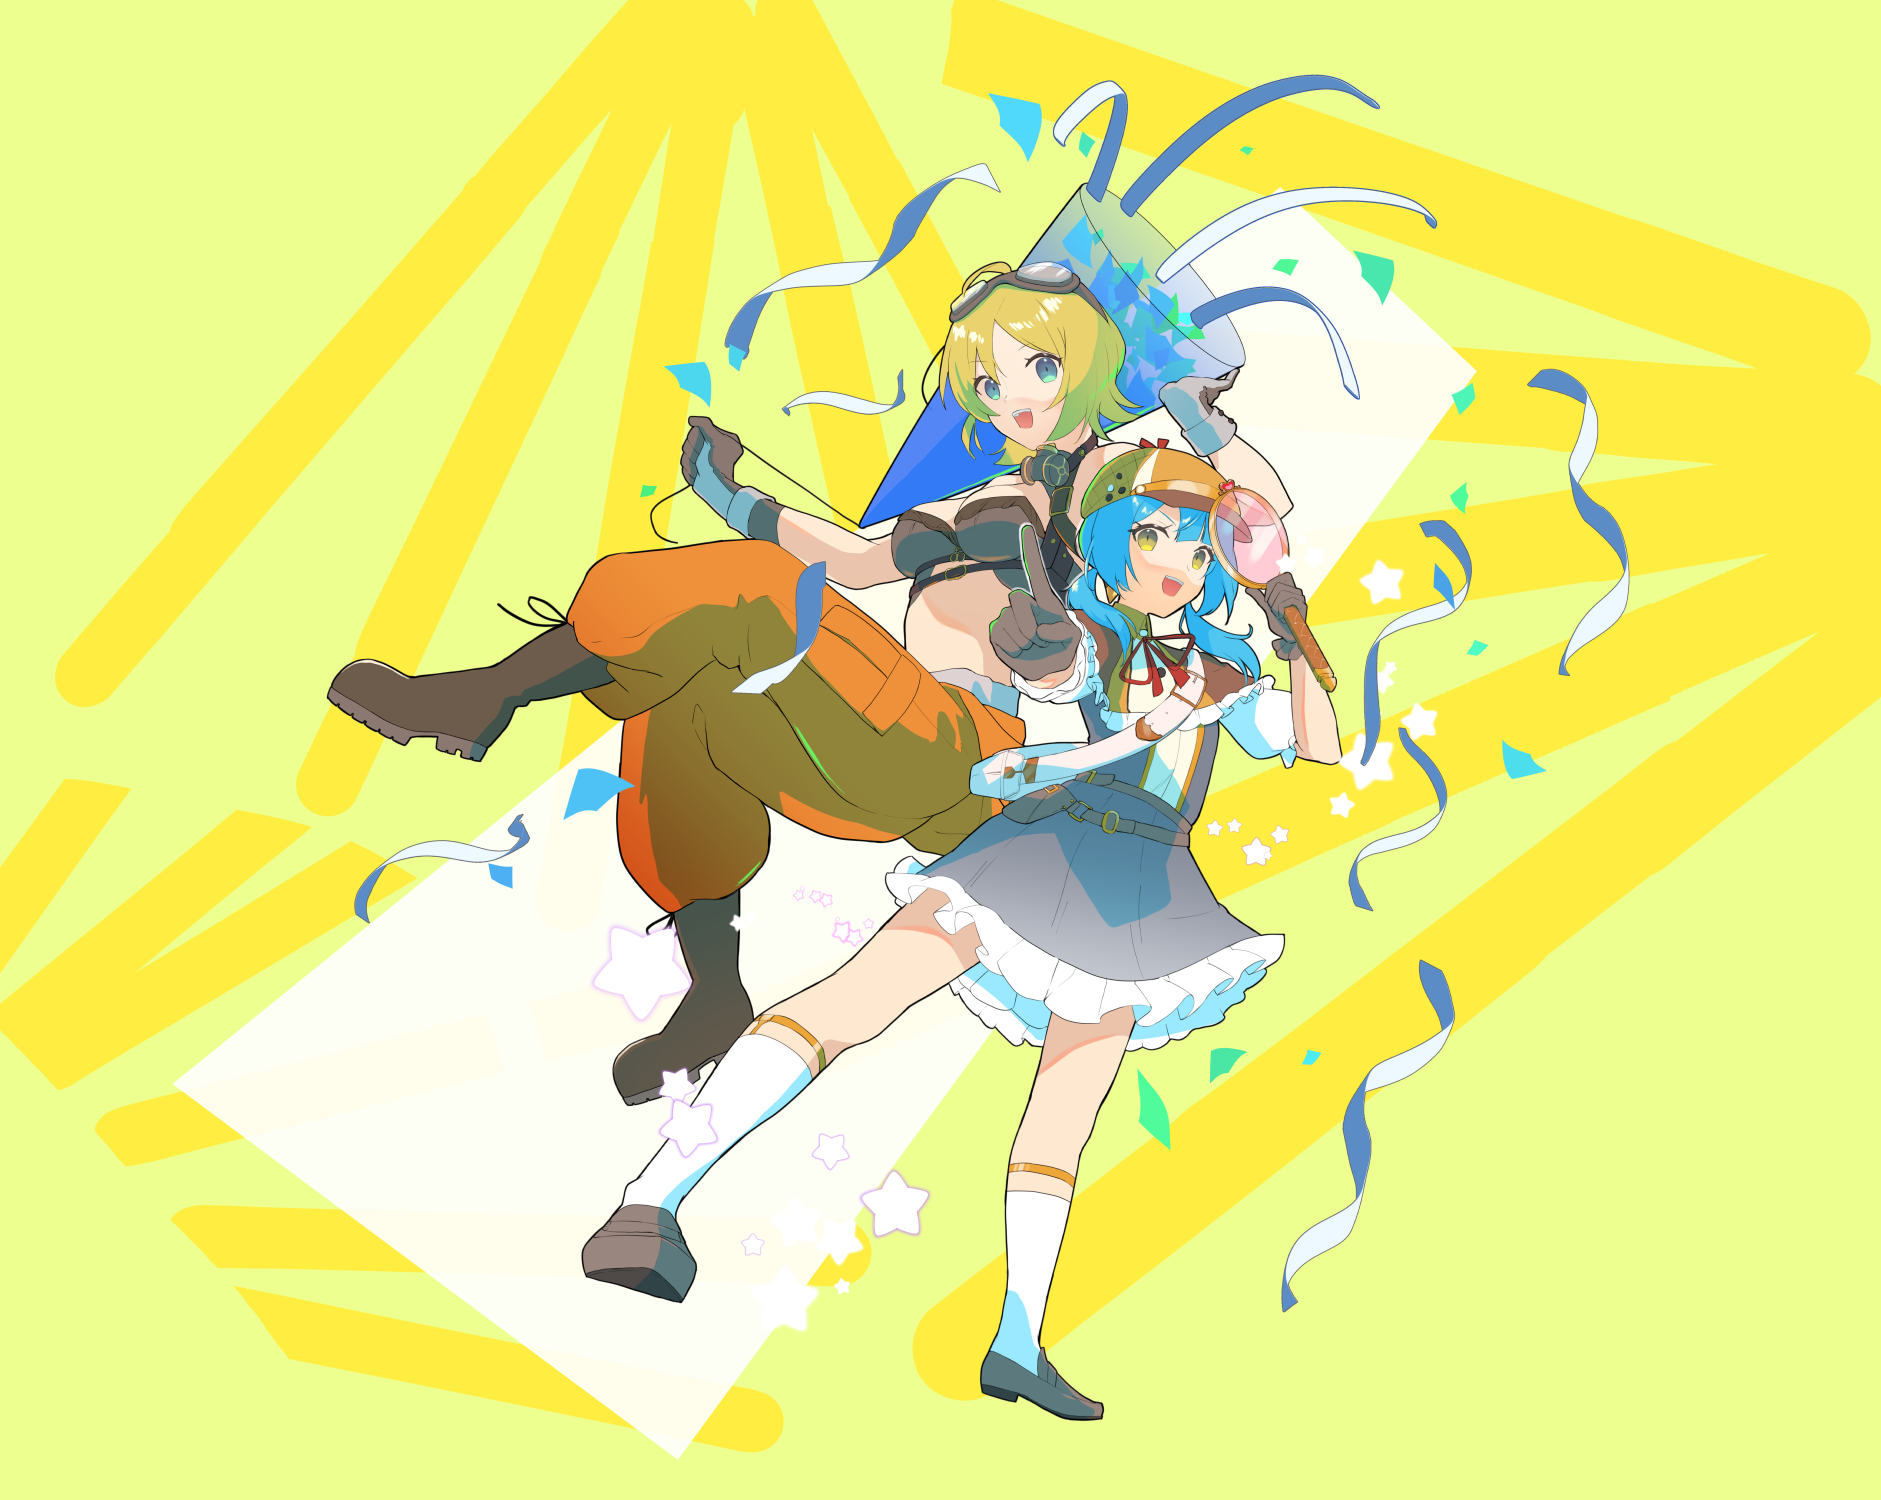
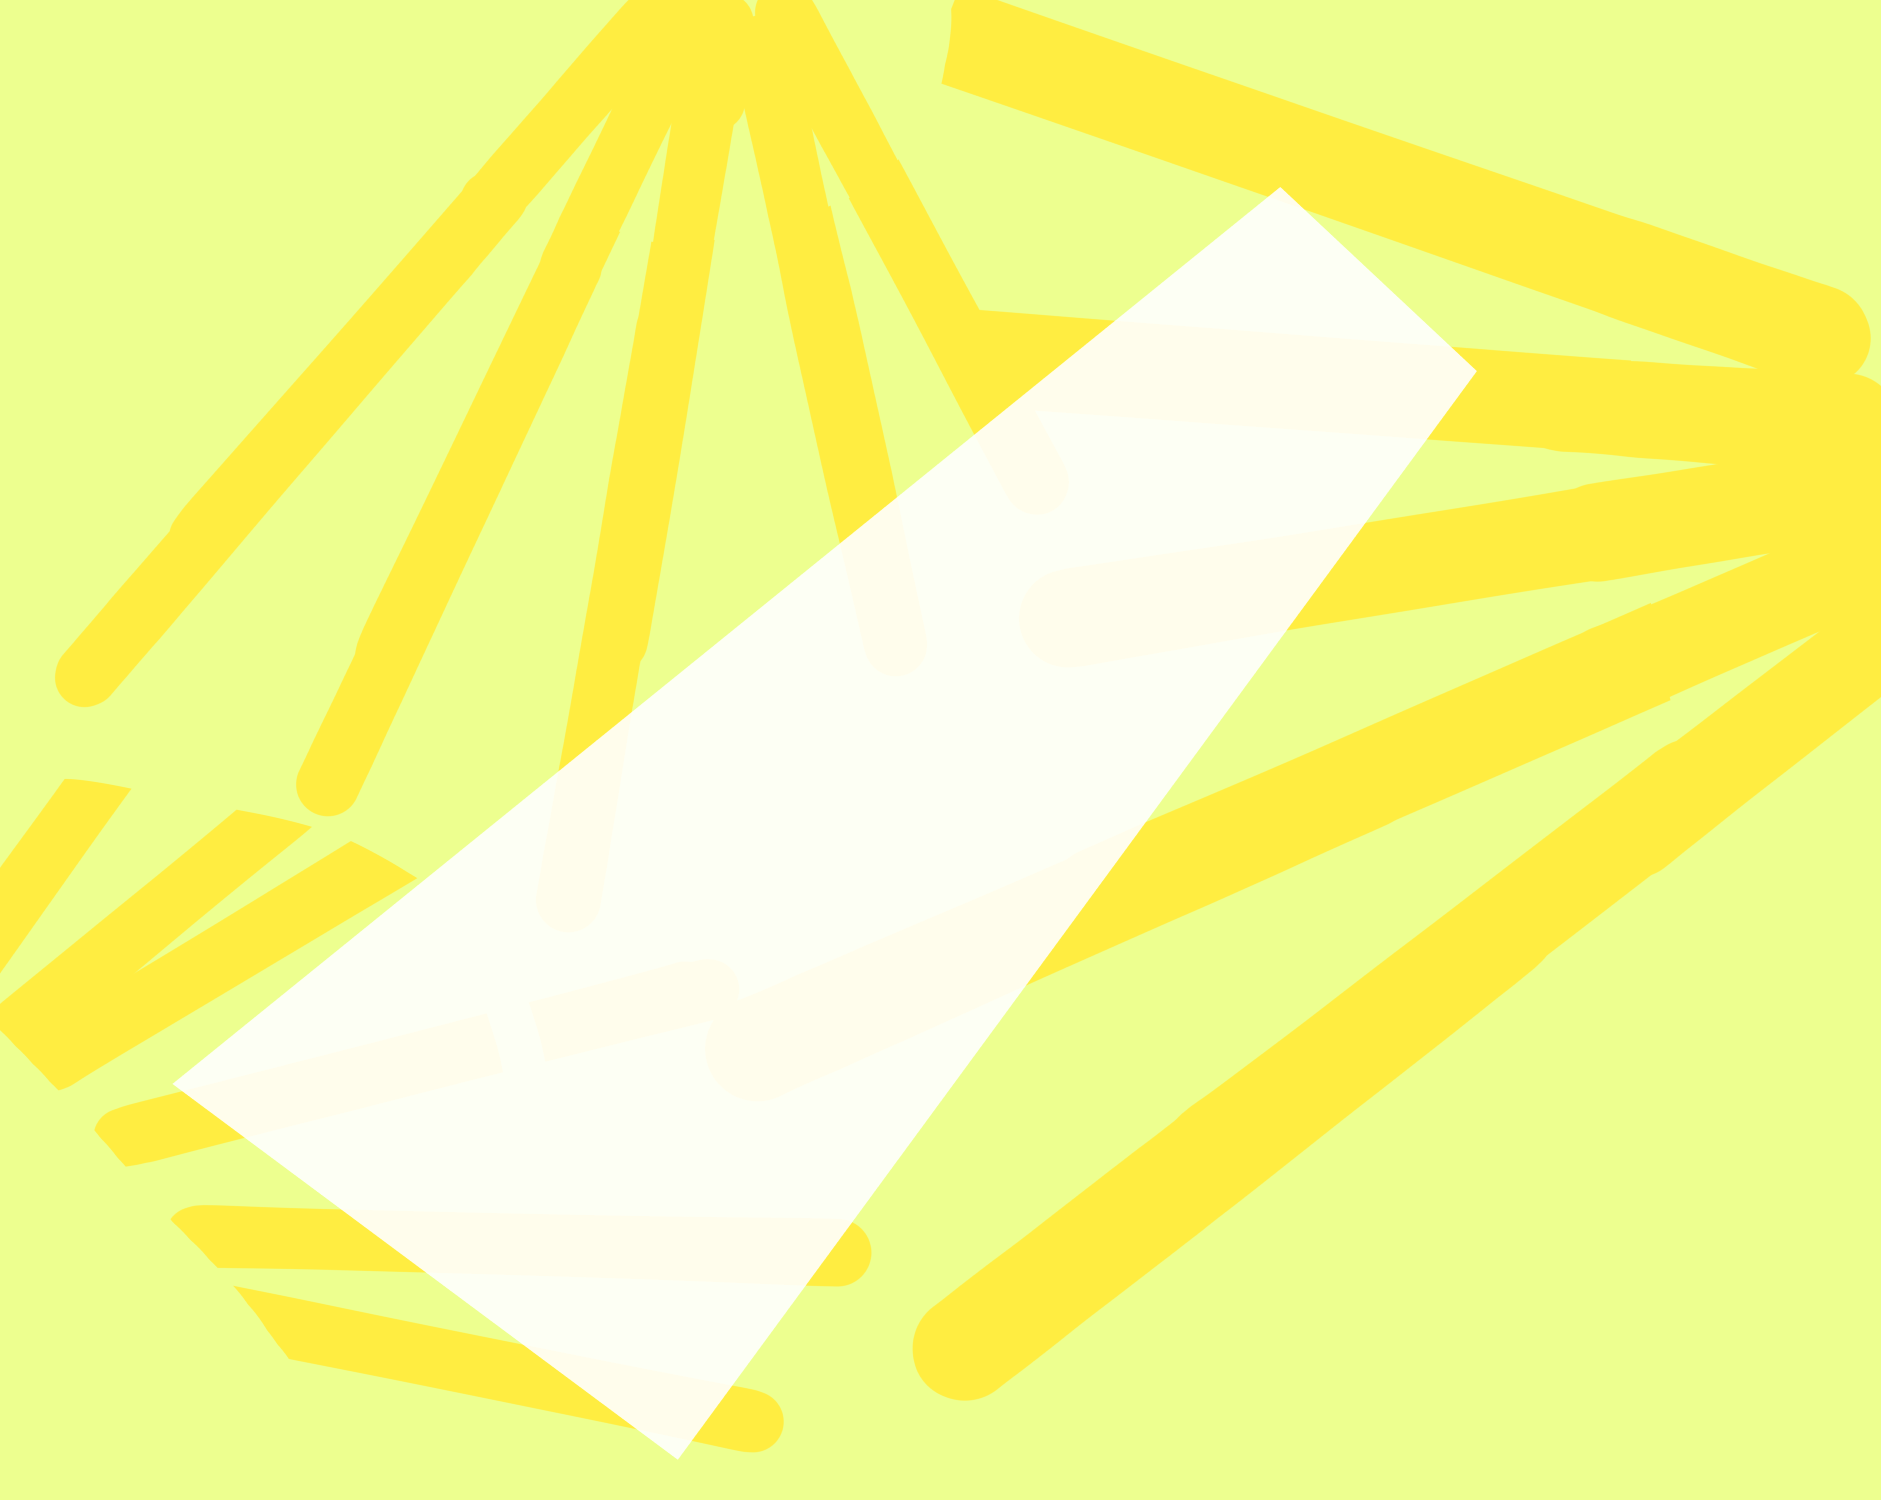
feat: トップイラストを動かした

diff --git a/app/top/page.client.tsx b/app/top/page.client.tsx
@@ -32,6 +32,53 @@ const BackgroundInAnimation = keyframes`
   }
 `;
 
+const RightSlideInAnimation = keyframes`
+  0% {
+    transform: translateX(120%) rotateZ(0deg);
+  }
+  50% {
+    transform: translateX(0%)  rotateZ(-30deg);
+  }
+  100% {
+    transform: translateX(0%) scale(1, 1);
+  }
+`;
+
+const LeftSlideInAnimation = keyframes`
+  0% {
+    transform: translateX(-120%) rotateZ(0deg);
+  }
+  50% {
+    transform: translateX(0%)  rotateZ(30deg);
+  }
+  100% {
+    transform: translateX(0%) scale(1, 1);
+  }
+`;
+
+const MoveAnimation = keyframes`
+  0% {
+    transform: translateY(0%);
+    animation-timing-function: ease-out;
+  }
+  25% {
+    transform: translateY(-1%);
+    animation-timing-function: ease-in;
+  }
+  50% {
+    transform: translateY(0%);
+    animation-timing-function: linear;
+  }
+  75% {
+    transform: translateY(1%);
+    animation-timing-function: ease-in;
+  }
+  100% {
+    transform: translateY(0%);
+    animation-timing-function: ease-out;
+  }
+`;
+
 const ImageWrapper = styled.div<{
   width: number;
   height: number;
@@ -49,6 +96,28 @@ const ImageWrapper = styled.div<{
 
 const BackgroundImageWrapper = styled(ImageWrapper)`
   animation: 0.5s ease ${animationStartDelay + 0.1}s 1 running both
+    ${BackgroundInAnimation};
+  transform-origin: center bottom;
+`;
+
+const CartierImageWrapper = styled(ImageWrapper)`
+  animation: 0.8s ease ${animationStartDelay + 1}s 1 running both
+      ${RightSlideInAnimation},
+    6s ease ${animationStartDelay + 2}s infinite running forwards
+      ${MoveAnimation};
+  transform-origin: center bottom;
+`;
+
+const JeaneImageWrapper = styled(ImageWrapper)`
+  animation: 0.8s ease ${animationStartDelay + 1.2}s 1 running both
+      ${LeftSlideInAnimation},
+    6s ease ${animationStartDelay + 2}s infinite running forwards reverse
+      ${MoveAnimation};
+  transform-origin: center bottom;
+`;
+
+const EffectImageWrapper = styled(ImageWrapper)`
+  animation: 0.5s ease ${animationStartDelay + 1.7}s 1 running both
     ${BackgroundInAnimation};
   transform-origin: center bottom;
 `;
@@ -117,6 +186,42 @@ const Page: React.FC = () => {
             alt="背景画像"
           />
         </BackgroundImageWrapper>
+        <CartierImageWrapper width={imageSize.w} height={imageSize.h}>
+          <Image
+            src={
+              isMobileMac() || isSmallSize()
+                ? topImageContext.images["cartier_m.png"]
+                : topImageContext.images["cartier.png"]
+            }
+            width={imageSize.w}
+            height={imageSize.h}
+            alt="背景画像"
+          />
+        </CartierImageWrapper>
+        <JeaneImageWrapper width={imageSize.w} height={imageSize.h}>
+          <Image
+            src={
+              isMobileMac() || isSmallSize()
+                ? topImageContext.images["jeane_m.png"]
+                : topImageContext.images["jeane.png"]
+            }
+            width={imageSize.w}
+            height={imageSize.h}
+            alt="背景画像"
+          />
+        </JeaneImageWrapper>
+        <EffectImageWrapper width={imageSize.w} height={imageSize.h}>
+          <Image
+            src={
+              isMobileMac() || isSmallSize()
+                ? topImageContext.images["effect_m.png"]
+                : topImageContext.images["effect.png"]
+            }
+            width={imageSize.w}
+            height={imageSize.h}
+            alt="背景画像"
+          />
+        </EffectImageWrapper>
       </ResponsiveImage>
     </>
   );

diff --git a/lib/utils/useTopImageContext.ts b/lib/utils/useTopImageContext.ts
@@ -1,6 +1,15 @@
 import { createImageContext } from "@/utils/useImageContext";
 
-const imageNames = ["haikei.png", "haikei_m.png"] as const;
+const imageNames = [
+  "haikei.png",
+  "haikei_m.png",
+  "cartier.png",
+  "cartier_m.png",
+  "jeane.png",
+  "jeane_m.png",
+  "effect.png",
+  "effect_m.png",
+] as const;
 
 const { ImageContext, useImageContext, useImageContextValue } =
   createImageContext(imageNames, (imageName) => `/assets/img/top/${imageName}`);
